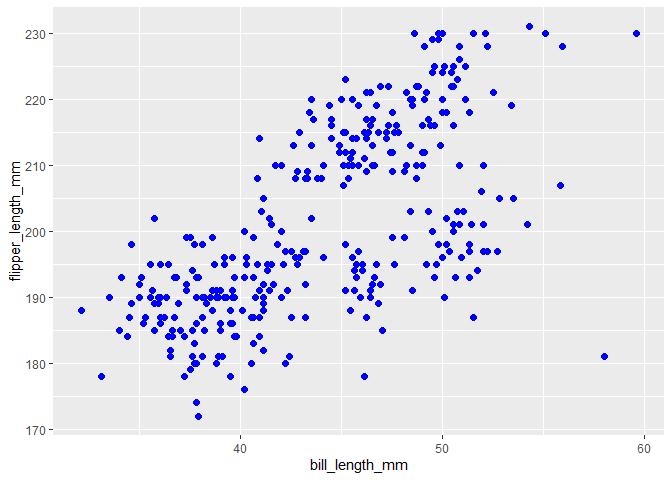
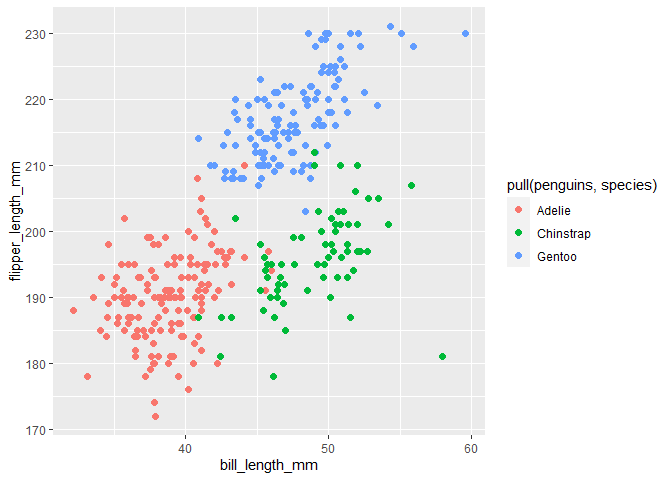
update the codes for problem2, refine the image

diff --git a/p8105_hw1_zl2977.md b/p8105_hw1_zl2977.md
@@ -42,13 +42,13 @@ Take the mean of each variable in my data frame.
 mean(pull(prob1_df,samp))
 ```
 
-    ## [1] 0.1848301
+    ## [1] -0.2802937
 
 ``` r
 mean(pull(prob1_df,samp_gt_0))
 ```
 
-    ## [1] 0.6
+    ## [1] 0.3
 
 ``` r
 mean(pull(prob1_df,char_vec))
@@ -116,8 +116,8 @@ plot_data<-data.frame(
   flipper_length_mm=pull(penguins,flipper_length_mm)
 )
 
-ggplot(plot_data,aes(x=bill_length_mm, y=flipper_length_mm))+
-  geom_point(size=2,shape=19, color="blue")
+ggplot(plot_data,aes(x=bill_length_mm, y=flipper_length_mm, color=pull(penguins,species)))+
+  geom_point(size=2,shape=19)
 ```
 
     ## Warning: Removed 2 rows containing missing values (geom_point).
